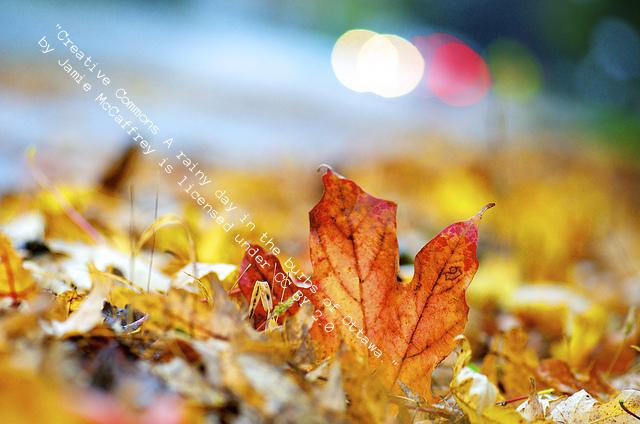
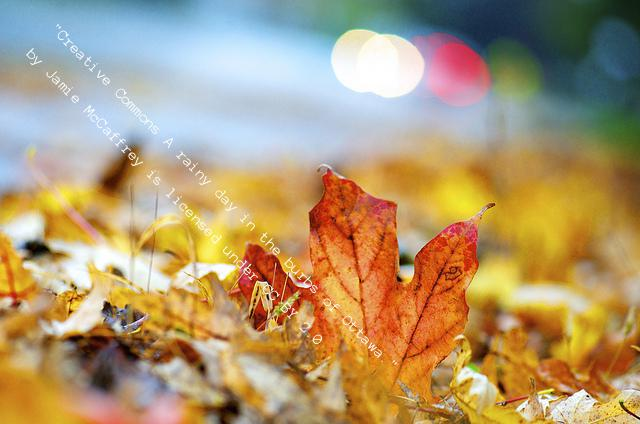
linting

diff --git a/_posts/snippets/watermarking_4.php b/_posts/snippets/watermarking_4.php
@@ -6,10 +6,15 @@ use Intervention\Image\ImageManagerStatic as Image;
 Image::configure(["driver" => "imagick"]);
 
 Image::make("./assets/images/leaf.jpg")
-    ->text("watermarking... but terse~~", 100, 100, function($f) {
-        $f->file("./assets/fonts/Anonymous_Pro.ttf");
-        $f->size(29);
-        $f->color("#fff");
-        $f->angle(-30);
-    })
+    ->text(
+        "watermarking... but terse~~",
+        100,
+        100,
+        function ($f) {
+            $f->file("./assets/fonts/Anonymous_Pro.ttf");
+            $f->size(29);
+            $f->color("#fff");
+            $f->angle(-30);
+        }
+    )
     ->save("./assets/images/modified/leaf_4.jpg");

diff --git a/_posts/snippets/watermarking_1.php b/_posts/snippets/watermarking_1.php
@@ -5,9 +5,10 @@ $leaf = imagecreatefromjpeg("./assets/images/leaf.jpg");
 
 // The path to a truetype file.
 // @note - this is a very limiting factor of GD, imo!
-$ttf  = "./assets/fonts/Anonymous_Pro.ttf";
+$ttf = "./assets/fonts/Anonymous_Pro.ttf";
 
-$attribution = "\"Creative Commons A rainy day in the burbs of Ottawa.\" \r\nby Jamie McCaffrey is licensed under CC BY 2.0";
+$attribution = "\"Creative Commons A rainy day in the burbs of Ottawa.\"
+    \r\nby Jamie McCaffrey is licensed under CC BY 2.0";
 
 // Create our watermark.
 $result = imagettftext(
